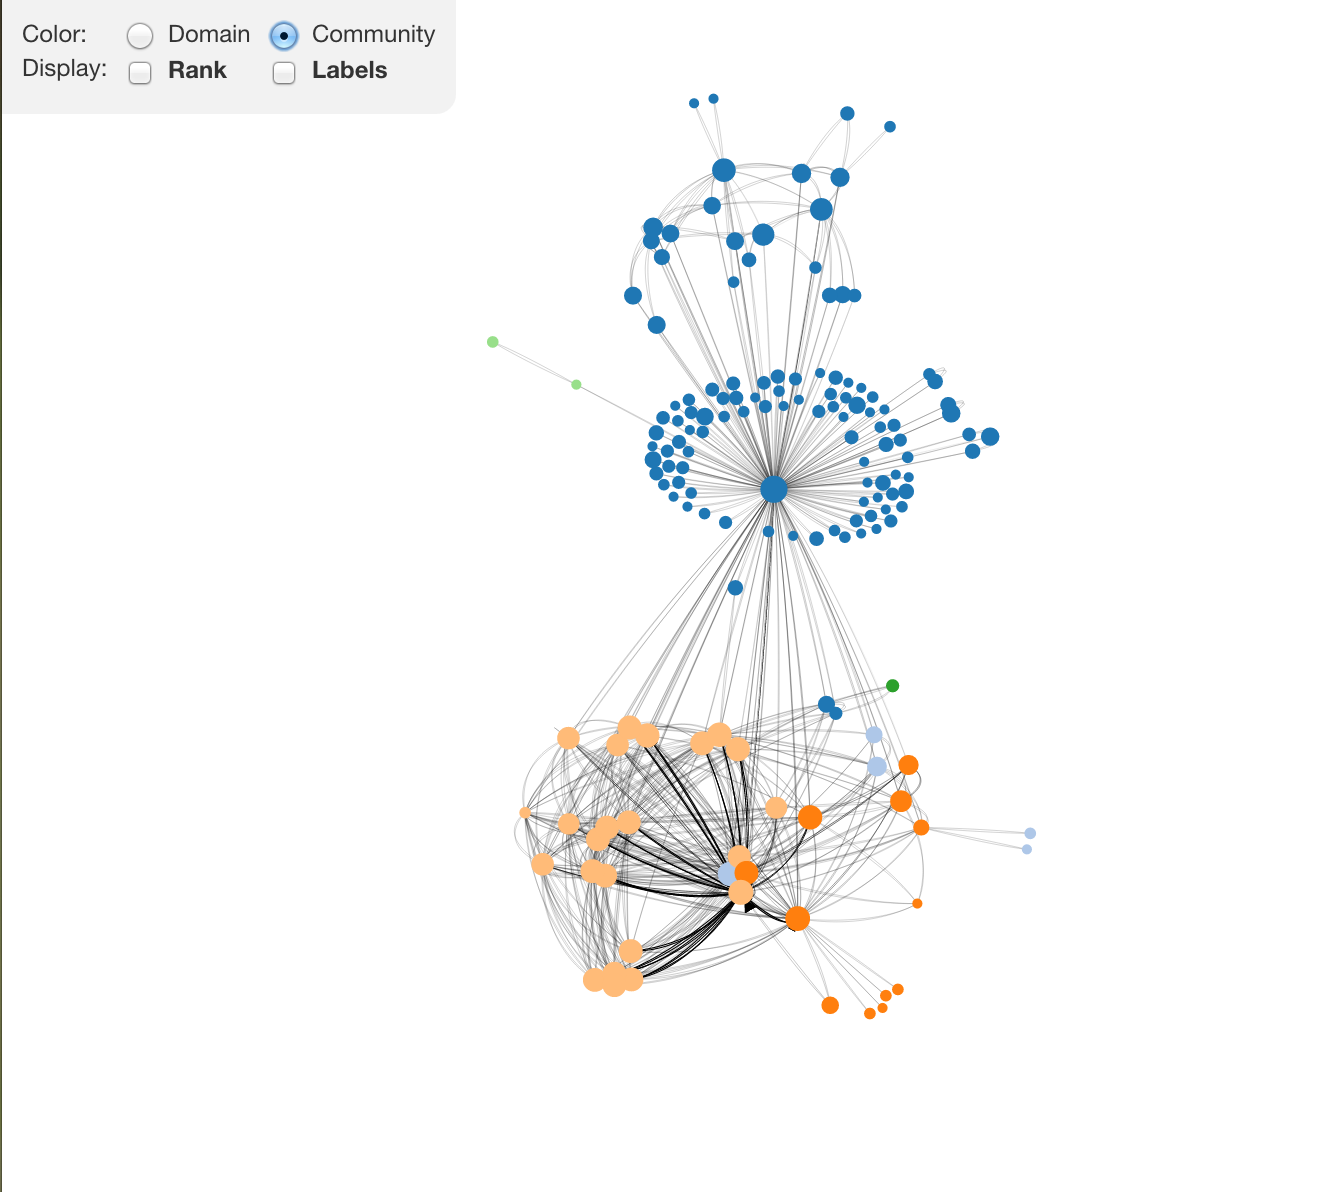
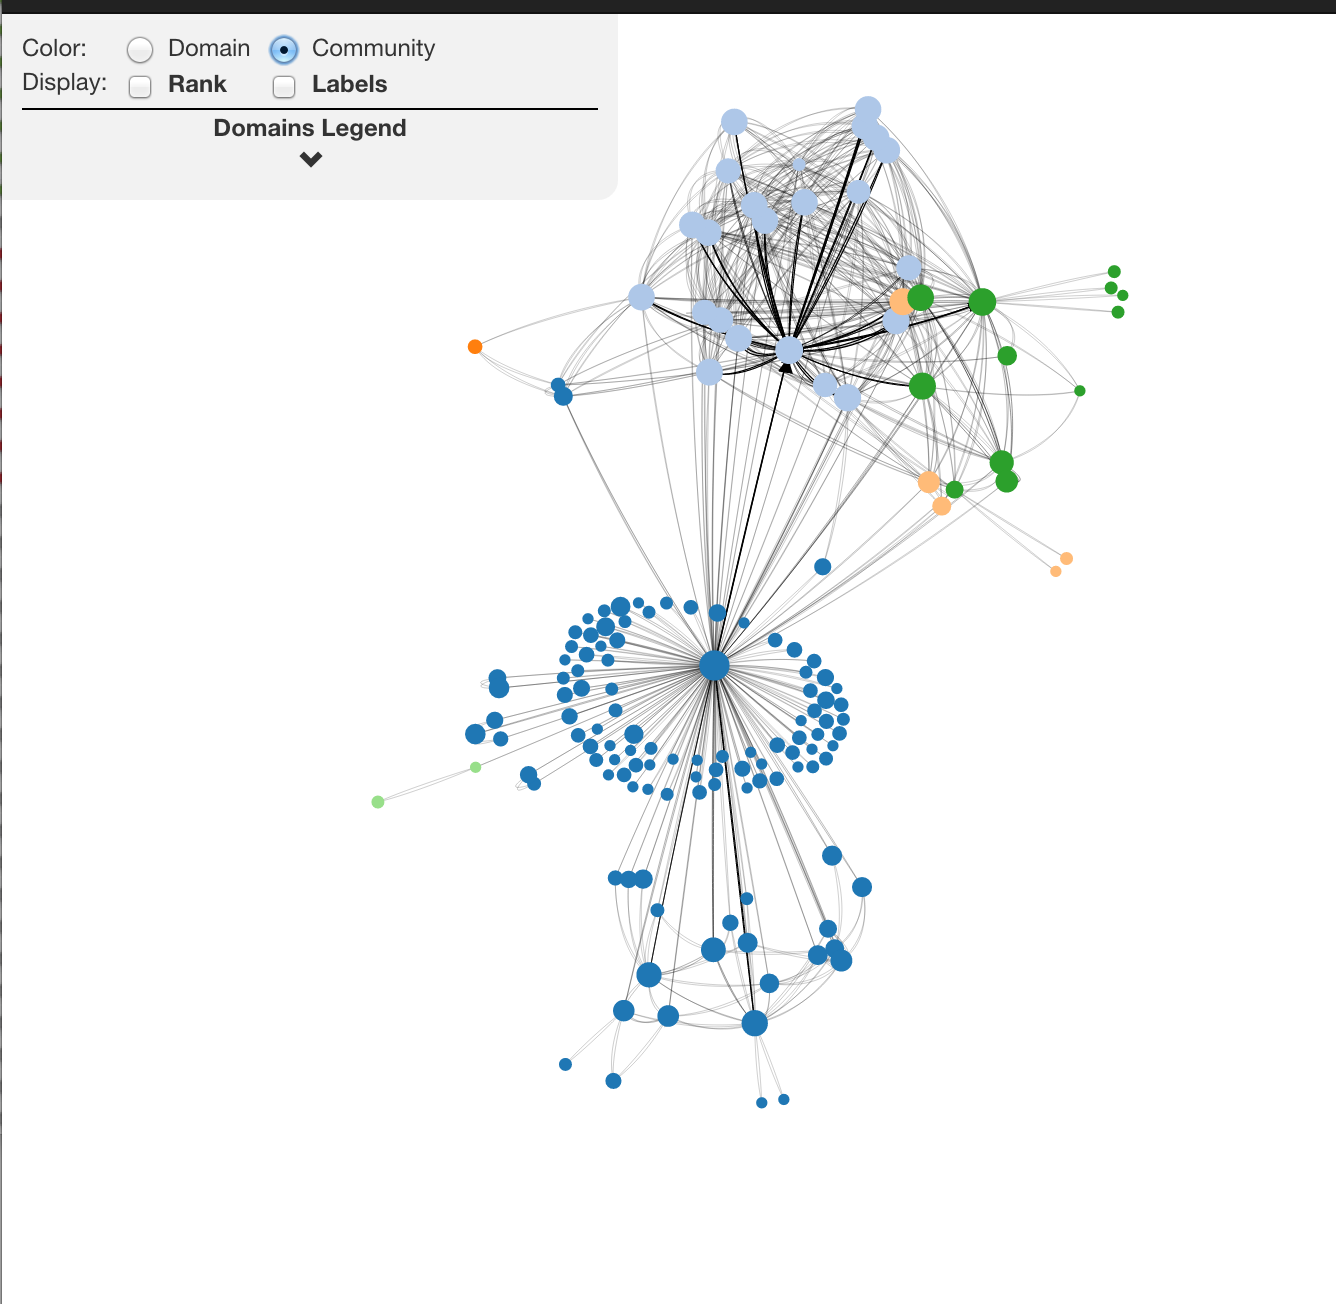
feature updates

diff --git a/features.md b/features.md
@@ -16,6 +16,12 @@ With **Domains** selected all of the nodes are colored by domain.
 
 <img class="expandable" alt="Domain Graph" src="../img/graph_domain.png">
 
+# Domains Legend
+Email Domains shows a list of all of the visible domains on the screen with the count for each along with the color. Hovering over one of the rows will highlight all of the emails for that domain in the graph.  
+
+<img class="expandable" alt="Email Domains" src="../img/email_domains_highlighted.png">
+
+
 # Community
 
 With **Community** selected all of the nodes are colored by domain.  
@@ -52,6 +58,17 @@ either the **From/To/Cc/Bcc**.
 
 ## Rank
 
+Rank uses a custom algorithm to determine _important_ email addresses
+in the data set. 
+
+<img class="expandable" alt="Rank" src="../img/rank.png">
+
+Checking the **Rank** option in the graph will highlight the ranked
+nodes in red on the graph.  Hovering over an email address will
+highlight that node in the graph in yellow.
+
+<img class="expandable" alt="Rank" src="../img/rank_graph.png">
+
 ## Entities
 
 The entities tab shows the highest occurring entities extracted by [MITIE](https://github.com/mitll/MITIE) Clicking on one of the entities will requery for emails which contain that entity.  
@@ -66,7 +83,18 @@ The topics tab shows the topics among all of the emails. Clicking on one of the 
 
 ## Email View 
 
-# Active Search Recommendation
+# ActiveSearch Recommendation
+
+Seeding [ActiveSearch](https://github.com/AutonlabCMU/ActiveSearch) by clicking the **Seed Active Search** button.
+This will start the recommendation by using the current email as the
+seed. 
+
+<img class="expandable" alt="active_search" src="../img/activesearch.png">
+
+**Interested**/**Not Interested** - clicking the _thumbs up_ icon will
+  tell ActiveSearch the current email is interesting and to show more
+  emails like this.  The _thumbs down_ says the current email is not
+  interesting and to not show emails similar to it.
 
 # Entities
 
@@ -78,7 +106,3 @@ The topics tab shows the topics among all of the emails. Clicking on one of the 
 
 ## Export
 
-## Email Domains
-Email Domains shows a list of all of the visible domains on the screen with the count for each along with the color. Hovering over one of the rows will highlight all of the emails for that domain in the graph.  
-
-<img class="expandable" alt="Email Domains" src="../img/email_domains_highlighted.png">
